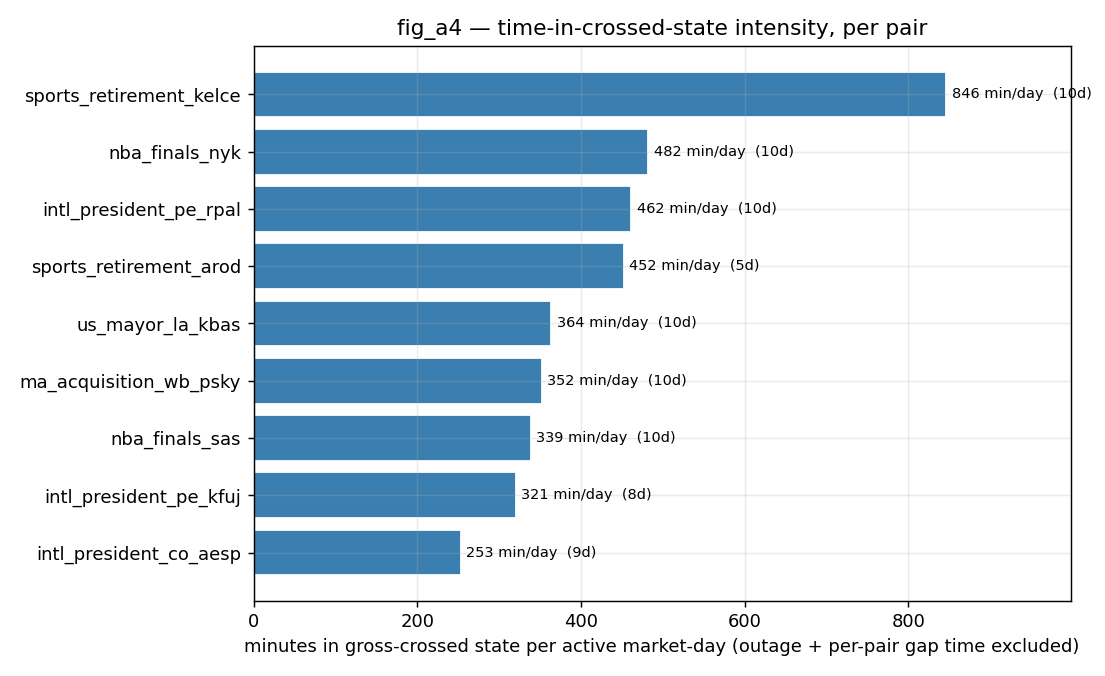
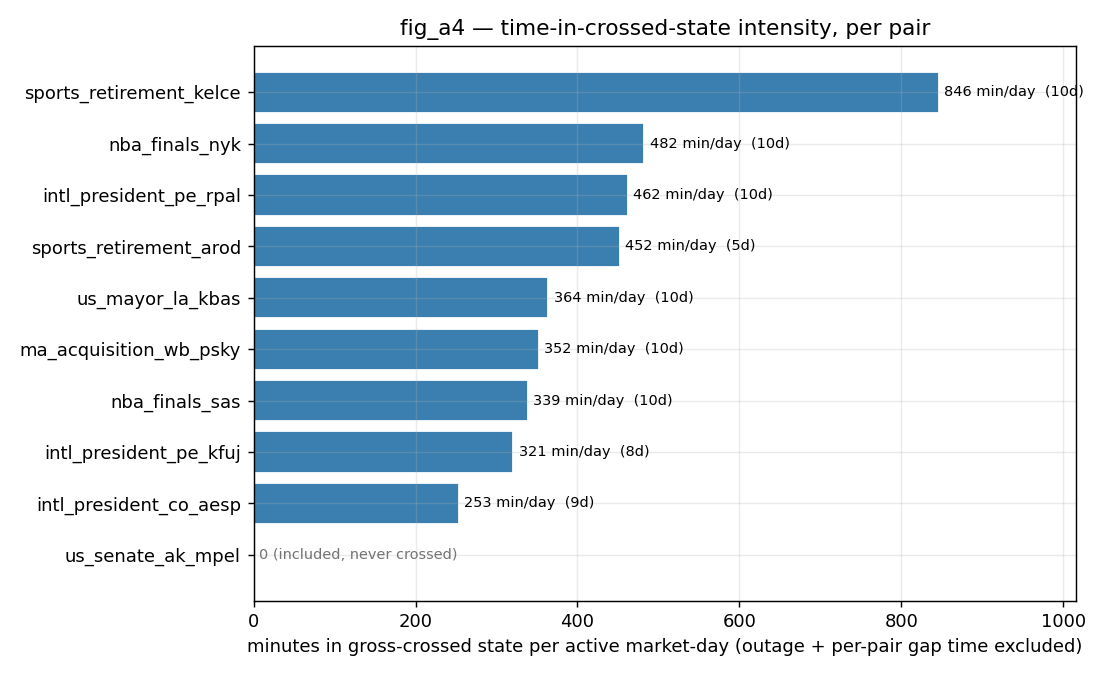
fig_a4: render never-crossed pair + document day-count semantics
us_senate_ak_mpel (included, 0 crossed-min) now renders as an explicit
labeled 0-bar instead of silently dropping. Adds per-pair active-market-day
table to build_log.md. Confirms figure "(Nd)" = distinct UTC dates with
crossing activity (per-pair divisor); essay's "9 days" = elapsed window.
Both correct, different measures.

Changed region(s): [[0.0, 0.0621, 0.9846, 0.963], [0.3385, 0.0311, 0.8615, 0.0621]]

diff --git a/batch_counterfactual/arms/arm_a_figs.py b/batch_counterfactual/arms/arm_a_figs.py
@@ -180,17 +180,26 @@ def fig_a3(ep: pd.DataFrame, sized: pd.DataFrame | None) -> list[tuple]:
 # -------------------------------------------------------------------------
 def fig_a4(summ: pd.DataFrame) -> None:
     s = summ[summ["scope"].isin(INCLUDED_PAIRS)].copy()
-    s = s.sort_values("crossed_min_per_market_day", ascending=True)
+    # Included-but-never-crossed pairs (e.g. us_senate_ak_mpel) have a NaN
+    # crossed_min_per_market_day — render them as explicit labeled 0-length bars
+    # rather than silently dropping them from the chart.
+    s["value"] = s["crossed_min_per_market_day"].fillna(0.0)
+    s["never_crossed"] = s["crossed_min_per_market_day"].isna()
+    s = s.sort_values(["value", "scope"], ascending=[True, True])
     fig, ax = plt.subplots(figsize=(8.5, 5.2))
-    ax.barh(s["scope"], s["crossed_min_per_market_day"], color="#3a7fb0",
-            edgecolor="white")
-    for y, (v, md) in enumerate(zip(s["crossed_min_per_market_day"], s["active_market_days"])):
-        ax.annotate(f"{v:.0f} min/day  ({int(md)}d)", (v, y), fontsize=8,
-                    va="center", ha="left", xytext=(3, 0), textcoords="offset points")
+    colors = ["#c0c0c0" if nc else "#3a7fb0" for nc in s["never_crossed"]]
+    ax.barh(s["scope"], s["value"], color=colors, edgecolor="white")
+    for y, (v, md, nc) in enumerate(zip(s["value"], s["active_market_days"],
+                                        s["never_crossed"])):
+        label = ("0 (included, never crossed)" if nc
+                 else f"{v:.0f} min/day  ({int(md)}d)")
+        ax.annotate(label, (v, y), fontsize=8, va="center", ha="left",
+                    xytext=(3, 0), textcoords="offset points",
+                    color=("0.45" if nc else "black"))
     ax.set_xlabel("minutes in gross-crossed state per active market-day "
                   "(outage + per-pair gap time excluded)")
     ax.set_title("fig_a4 — time-in-crossed-state intensity, per pair")
-    ax.margins(x=0.18)
+    ax.margins(x=0.20)
     fig.tight_layout()
     fig.savefig(FIGS / "fig_a4_minutes_crossed_per_day.png")
     plt.close(fig)

diff --git a/docs/build_log.md b/docs/build_log.md
@@ -682,3 +682,36 @@ retail                       0.00           0.00    n/a (not clearable)
 retail_pm_rebate             0.00           0.00    n/a (not clearable)
 institutional              238.80     132,253.44                 0.1806
 ```
+
+
+## fig_a4 — included-never-crossed bar + day-count reconciliation (2026-06-08T04:50:05Z)
+
+Regenerated ONLY fig_a4 (frozen set + other figures untouched). us_senate_ak_mpel now renders as an explicit grey 0-length bar labeled "0 (included, never crossed)". Day-count table + figure-vs-essay reconciliation:
+
+```
+fig_a4 regenerated: per-pair active-market-day counts (= distinct UTC calendar
+dates on which an episode STARTED; the figure divides crossed-minutes by this).
+
+pair                       active_market_days  crossed_min  crossed_min/day
+---------------------------------------------------------------------------
+intl_president_co_aesp                      9      2278.13           253.13
+intl_president_pe_kfuj                      8      2566.32           320.79
+intl_president_pe_rpal                     10      4617.69           461.77
+ma_acquisition_wb_psky                     10      3521.93           352.19
+nba_finals_nyk                             10      4824.29           482.43
+nba_finals_sas                             10      3386.51           338.65
+sports_retirement_arod                      5      2261.92           452.38
+sports_retirement_kelce                    10      8462.84           846.28
+us_mayor_la_kbas                           10      3640.68           364.07
+us_senate_ak_mpel                           0         0.00 n/a (never crossed)
+---------------------------------------------------------------------------
+OVERALL                                    10     35560.29          3556.03
+
+=== day-count reconciliation (figure vs essay) ===
+capture span (episode starts): 2026-05-28 04:01:57.339434+00:00 -> 2026-06-06 03:38:10.945291+00:00
+  elapsed wall-clock          = 8.983 days  (~9 x 24h periods)
+  distinct UTC calendar dates = 10  (05-28 .. 06-06, boundary-inclusive)
+  figure active_market_days   = distinct UTC calendar dates with an episode start
+  => NYK "(10d)" counts CALENDAR DATES TOUCHED (10), not 24h periods elapsed (~9).
+  Essay "9 days of capture" = elapsed duration. DIFFERENT measures; both correct.
+```
